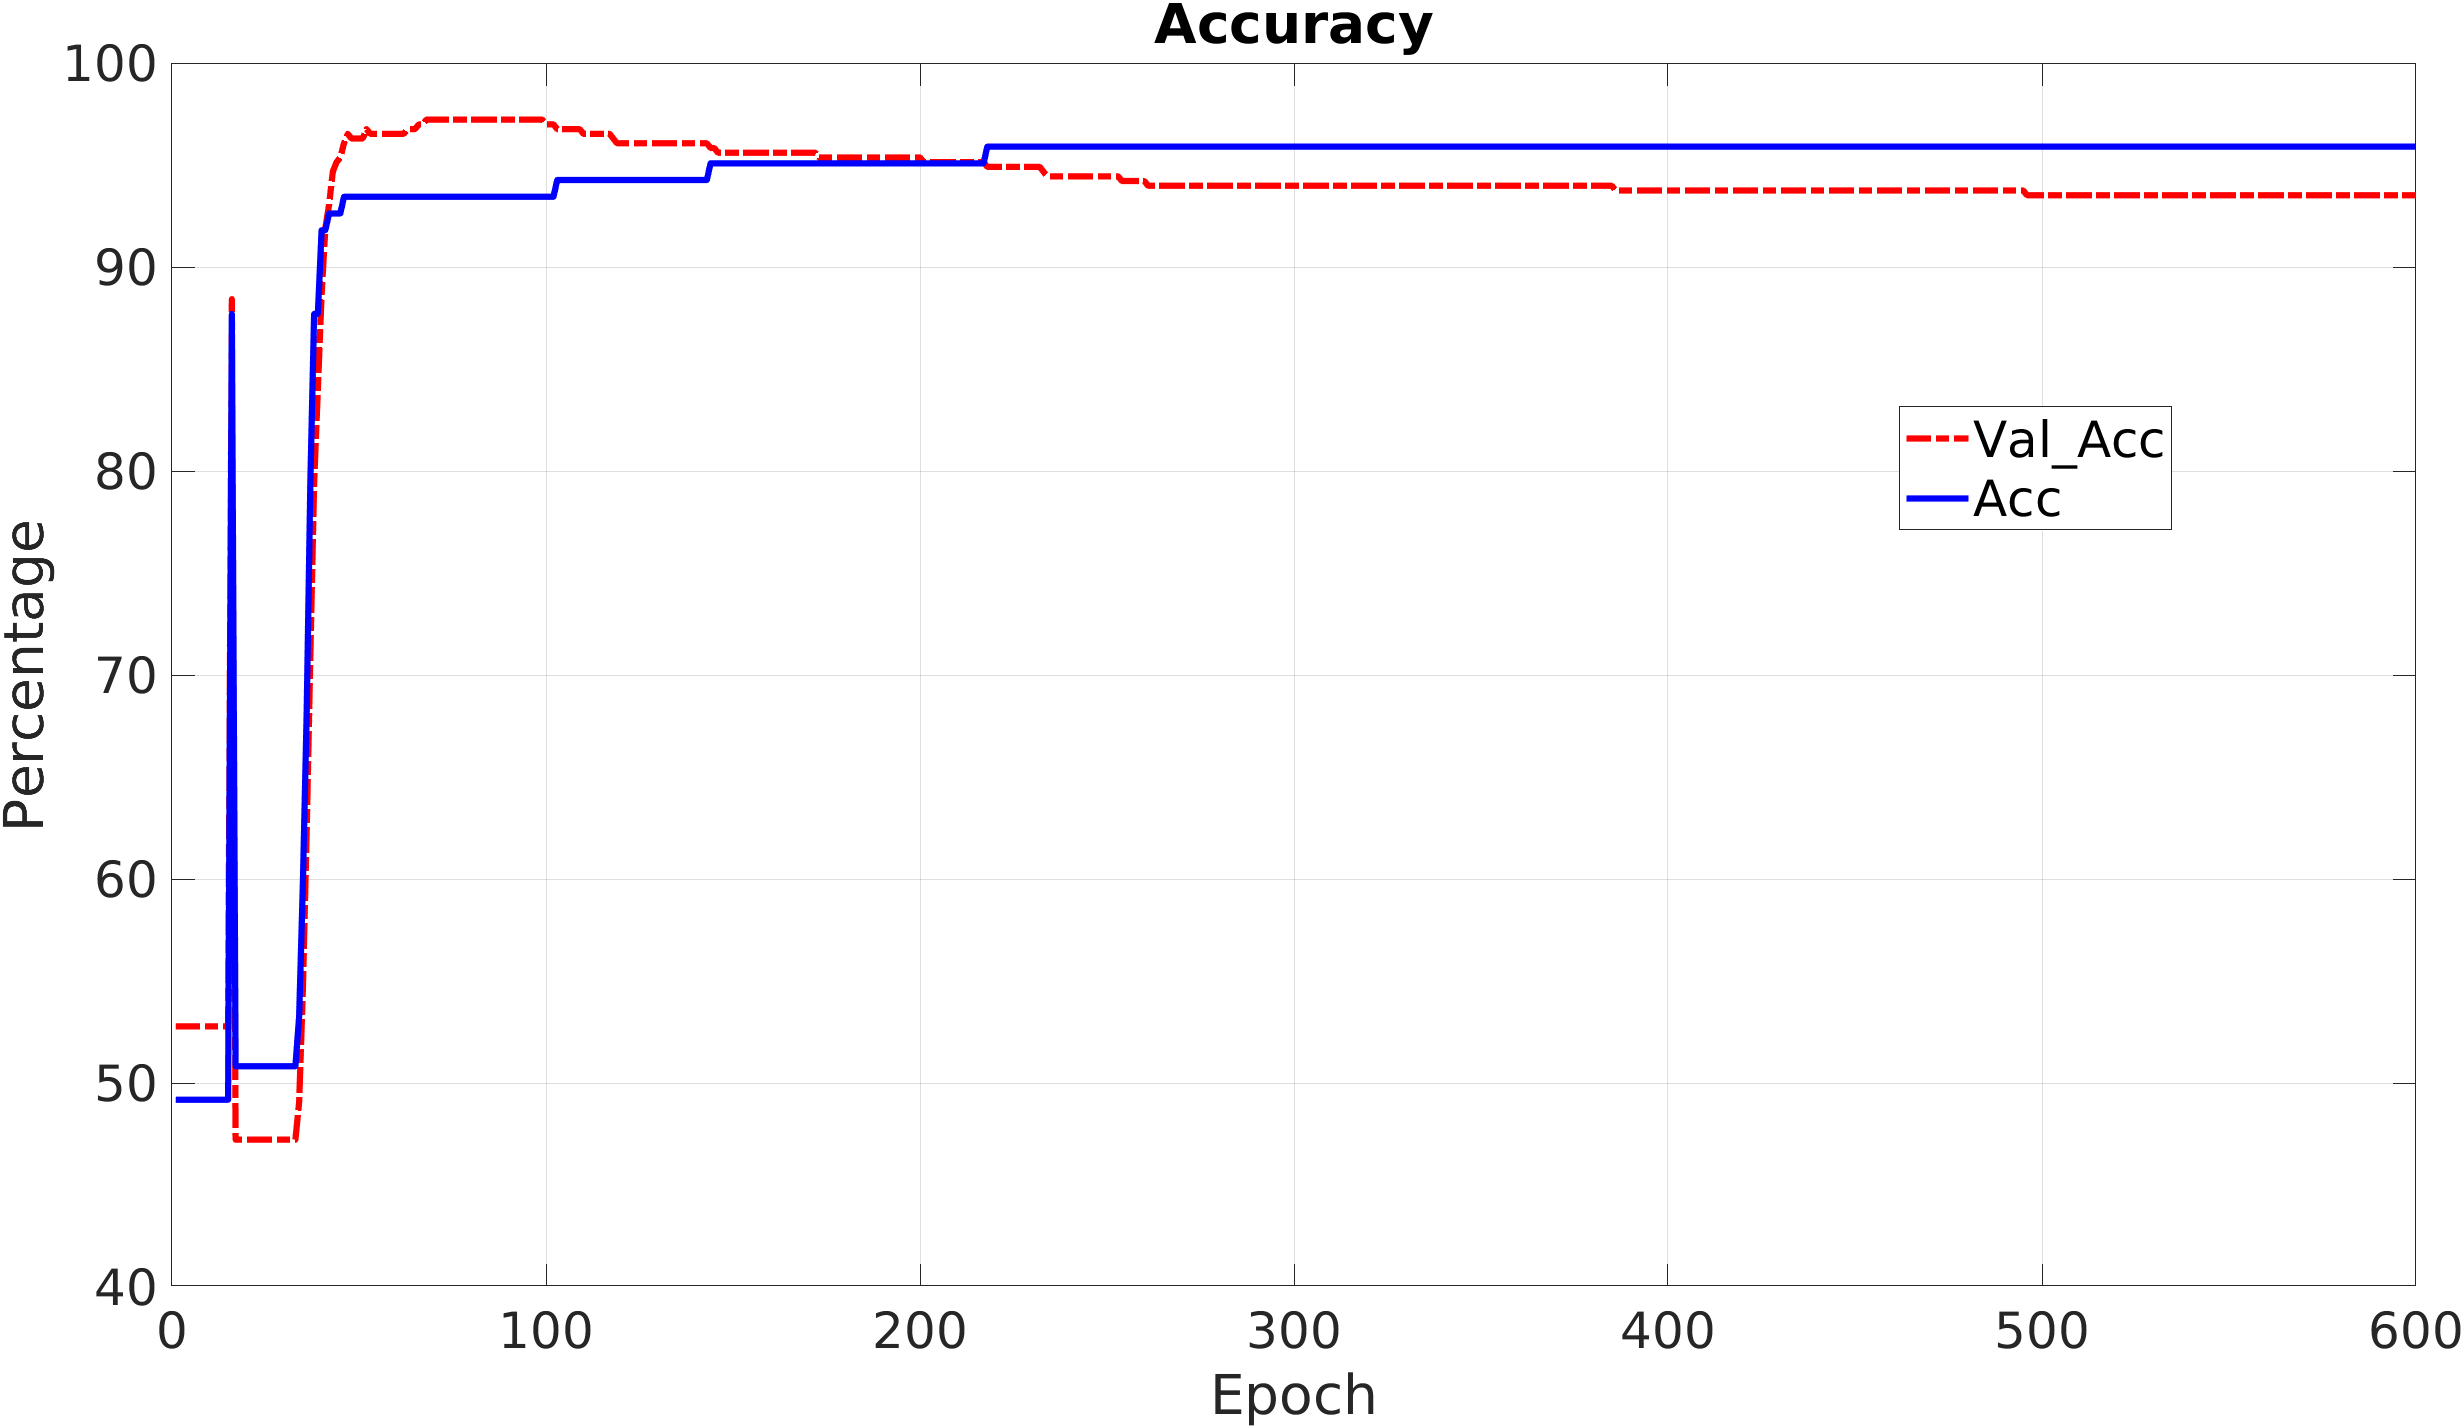
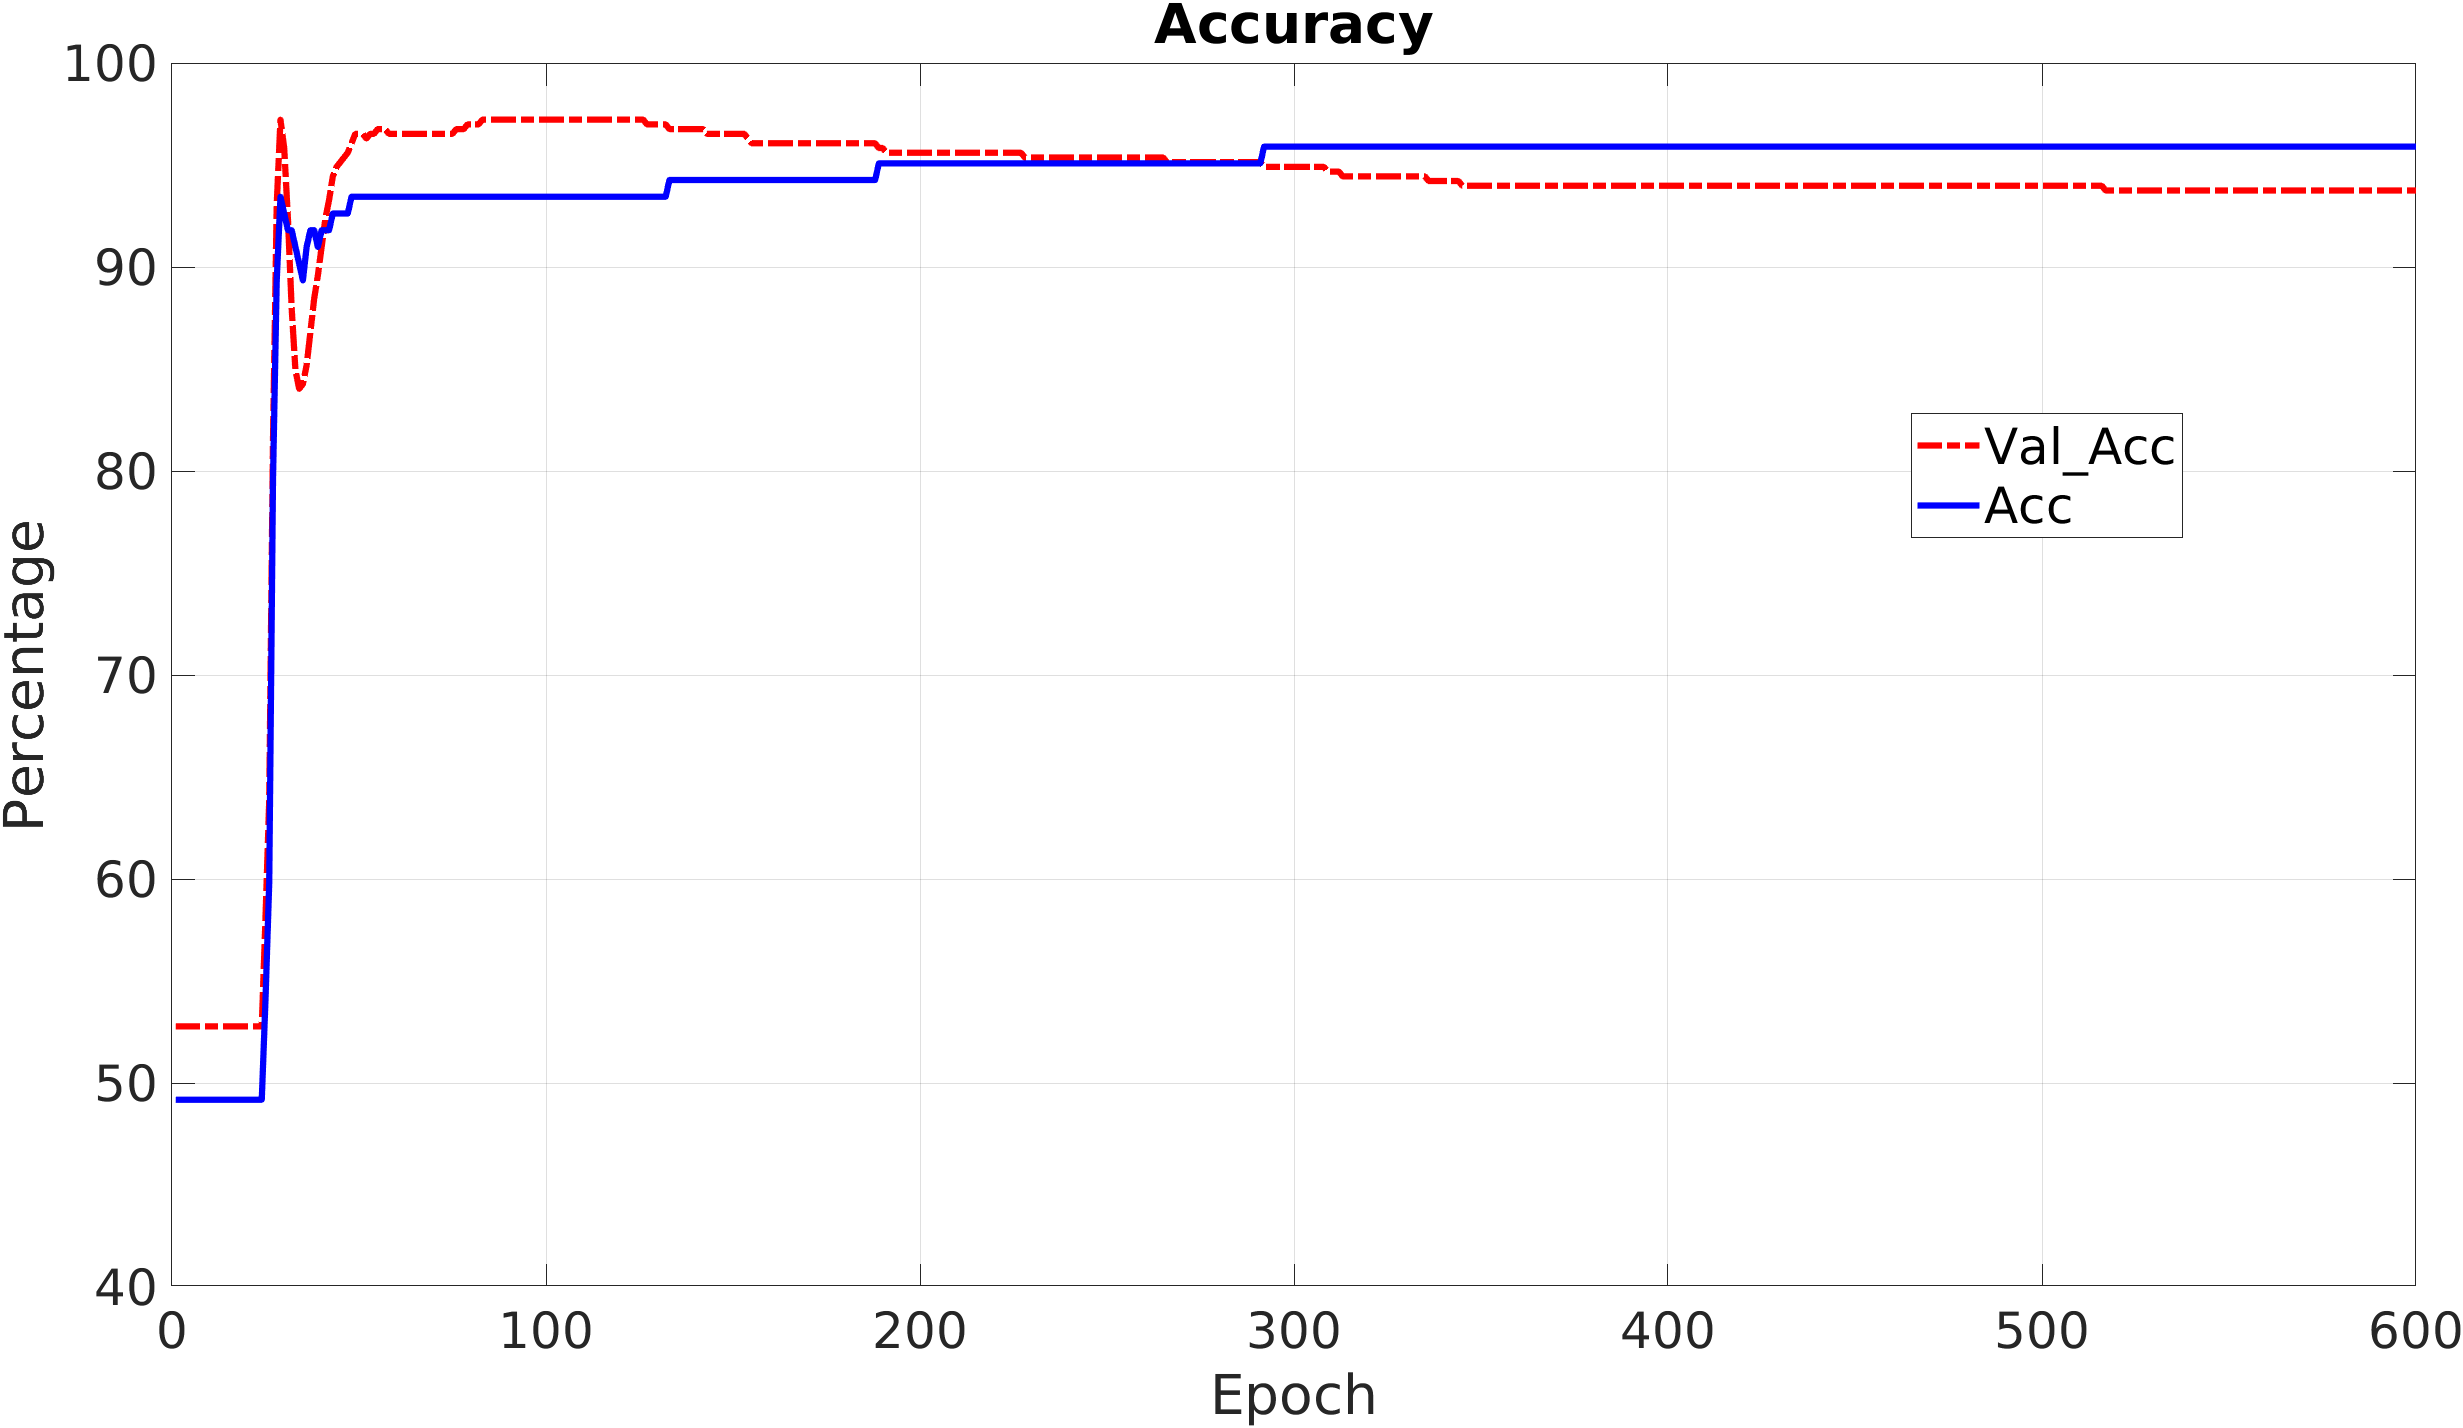
monk img

diff --git a/main.cpp b/main.cpp
@@ -134,9 +134,9 @@ int main() {
             trainingLabels.n_cols,
             800,
             256,
-            0.4,
-            0.001,
-            0.2);
+            0.6,
+            0.0,
+            0.7);
 
   arma::mat mat = arma::zeros(1, 1);
   net.TestWithThreshold(std::move(testData), std::move(testLabels), std::move(mat), 0.5);
